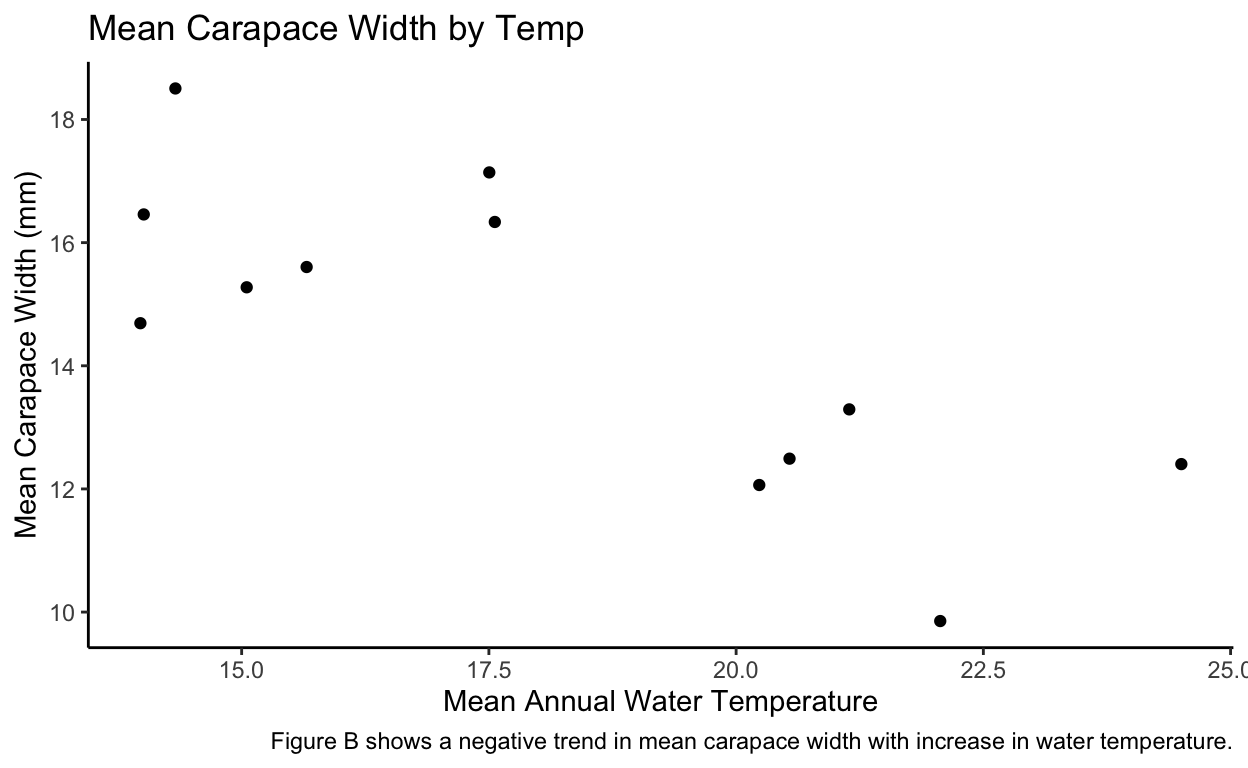
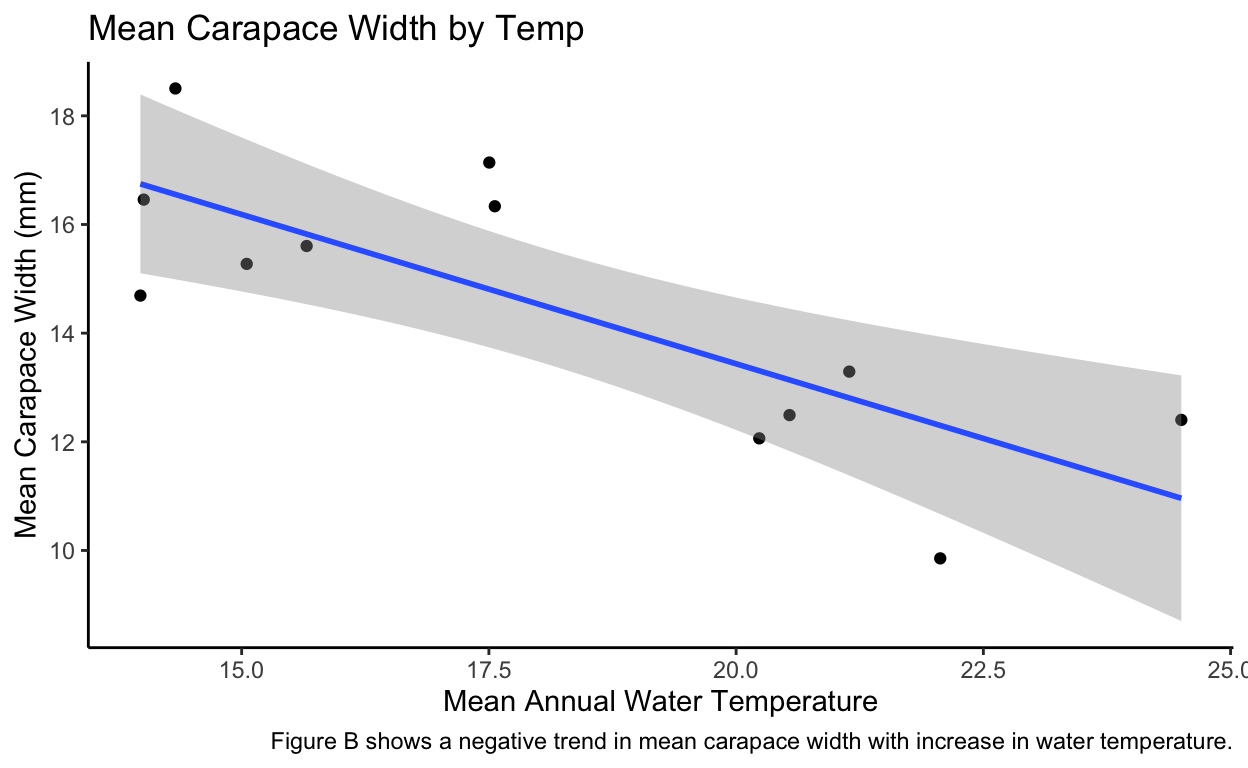
updated

diff --git a/docs/posts/2021-08-20-bringing-it-all-together/index.html b/docs/posts/2021-08-20-bringing-it-all-together/index.html
@@ -22,7 +22,7 @@
   <!--radix_placeholder_meta_tags-->
 <title>My Website: Bringing it All Together</title>
 
-<meta property="description" itemprop="description" content="Some examples of using all our tools to create data visualizations."/>
+<meta property="description" itemprop="description" content="Some examples of using all my tools from EDS 221 to wrangle and create data visualizations."/>
 
 
 <!--  https://schema.org/Article -->
@@ -33,20 +33,20 @@
 <!--  https://developers.facebook.com/docs/sharing/webmasters#markup -->
 <meta property="og:title" content="My Website: Bringing it All Together"/>
 <meta property="og:type" content="article"/>
-<meta property="og:description" content="Some examples of using all our tools to create data visualizations."/>
+<meta property="og:description" content="Some examples of using all my tools from EDS 221 to wrangle and create data visualizations."/>
 <meta property="og:locale" content="en_US"/>
 <meta property="og:site_name" content="My Website"/>
 
 <!--  https://dev.twitter.com/cards/types/summary -->
 <meta property="twitter:card" content="summary"/>
 <meta property="twitter:title" content="My Website: Bringing it All Together"/>
-<meta property="twitter:description" content="Some examples of using all our tools to create data visualizations."/>
+<meta property="twitter:description" content="Some examples of using all my tools from EDS 221 to wrangle and create data visualizations."/>
 
 <!--/radix_placeholder_meta_tags-->
   <!--radix_placeholder_rmarkdown_metadata-->
 
 <script type="text/json" id="radix-rmarkdown-metadata">
-{"type":"list","attributes":{"names":{"type":"character","attributes":{},"value":["title","description","author","date","output"]}},"value":[{"type":"character","attributes":{},"value":["Bringing it All Together"]},{"type":"character","attributes":{},"value":["Some examples of using all our tools to create data visualizations."]},{"type":"list","attributes":{},"value":[{"type":"list","attributes":{"names":{"type":"character","attributes":{},"value":["name","url"]}},"value":[{"type":"character","attributes":{},"value":["Jake Eisaguirre"]},{"type":"list","attributes":{"names":{"type":"character","attributes":{},"value":[]}},"value":[]}]}]},{"type":"character","attributes":{},"value":["08-20-2021"]},{"type":"list","attributes":{"names":{"type":"character","attributes":{},"value":["distill::distill_article"]}},"value":[{"type":"list","attributes":{"names":{"type":"character","attributes":{},"value":["self_contained"]}},"value":[{"type":"logical","attributes":{},"value":[false]}]}]}]}
+{"type":"list","attributes":{"names":{"type":"character","attributes":{},"value":["title","description","author","date","output"]}},"value":[{"type":"character","attributes":{},"value":["Bringing it All Together"]},{"type":"character","attributes":{},"value":["Some examples of using all my tools from EDS 221 to wrangle and create data visualizations."]},{"type":"list","attributes":{},"value":[{"type":"list","attributes":{"names":{"type":"character","attributes":{},"value":["name","url"]}},"value":[{"type":"character","attributes":{},"value":["Jake Eisaguirre"]},{"type":"list","attributes":{"names":{"type":"character","attributes":{},"value":[]}},"value":[]}]}]},{"type":"character","attributes":{},"value":["08-20-2021"]},{"type":"list","attributes":{"names":{"type":"character","attributes":{},"value":["distill::distill_article"]}},"value":[{"type":"list","attributes":{"names":{"type":"character","attributes":{},"value":["self_contained"]}},"value":[{"type":"logical","attributes":{},"value":[false]}]}]}]}
 </script>
 <!--/radix_placeholder_rmarkdown_metadata-->
   
@@ -2309,7 +2309,7 @@ d-appendix d-footnote-list a.footnote-backlink {
 <!--radix_placeholder_front_matter-->
 
 <script id="distill-front-matter" type="text/json">
-{"title":"Bringing it All Together","description":"Some examples of using all our tools to create data visualizations.","authors":[{"author":"Jake Eisaguirre","authorURL":{},"affiliation":"&nbsp;","affiliationURL":"#","orcidID":""}],"publishedDate":"2021-08-20T00:00:00.000+00:00","citationText":"Eisaguirre, 2021"}
+{"title":"Bringing it All Together","description":"Some examples of using all my tools from EDS 221 to wrangle and create data visualizations.","authors":[{"author":"Jake Eisaguirre","authorURL":{},"affiliation":"&nbsp;","affiliationURL":"#","orcidID":""}],"publishedDate":"2021-08-20T00:00:00.000+00:00","citationText":"Eisaguirre, 2021"}
 </script>
 
 <!--/radix_placeholder_front_matter-->
@@ -2336,7 +2336,7 @@ d-appendix d-footnote-list a.footnote-backlink {
 <h1>Bringing it All Together</h1>
 <!--radix_placeholder_categories-->
 <!--/radix_placeholder_categories-->
-<p><p>Some examples of using all our tools to create data visualizations.</p></p>
+<p><p>Some examples of using all my tools from EDS 221 to wrangle and create data visualizations.</p></p>
 </div>
 
 <div class="d-byline">
@@ -2347,16 +2347,38 @@ d-appendix d-footnote-list a.footnote-backlink {
 
 <div class="d-article">
 <div class="layout-chunk" data-layout="l-body">
-
+<div class="sourceCode">
+<pre class="sourceCode r"><code class="sourceCode r"><span class='va'>fids</span> <span class='op'>&lt;-</span> <span class='fu'>read_csv</span><span class='op'>(</span><span class='fu'>here</span><span class='op'>(</span><span class='st'>"_posts"</span>,<span class='st'>"2021-08-20-bringing-it-all-together"</span>, <span class='st'>"HTL-MAR-FiddlerCrabBodySize_copy.csv"</span><span class='op'>)</span><span class='op'>)</span>
+</code></pre>
+</div>
 </div>
 <h2 id="data-exploration">Data Exploration</h2>
-<p>Here we have a nice figure in which we can do some initial data exploration regarding carapace width by latitude.</p>
 <div class="layout-chunk" data-layout="l-body">
+<div class="sourceCode">
+<pre class="sourceCode r"><code class="sourceCode r"><span class='fu'>ggplot</span><span class='op'>(</span><span class='va'>fids</span>, <span class='fu'>aes</span><span class='op'>(</span>x <span class='op'>=</span> <span class='va'>Latitude</span>, y <span class='op'>=</span> <span class='va'>carapace_width</span><span class='op'>)</span><span class='op'>)</span> <span class='op'>+</span> 
+  <span class='fu'>geom_point</span><span class='op'>(</span><span class='fu'>aes</span><span class='op'>(</span>color <span class='op'>=</span> <span class='va'>Latitude</span><span class='op'>)</span><span class='op'>)</span> <span class='op'>+</span>
+  <span class='fu'>labs</span><span class='op'>(</span>title <span class='op'>=</span> <span class='st'>"Carapace Width by Latitude"</span>,
+       x <span class='op'>=</span> <span class='st'>"Latitude"</span>, 
+       y <span class='op'>=</span> <span class='st'>"Carapace Width (mm)"</span>, 
+       caption <span class='op'>=</span> <span class='st'>"Figure A is the observed Caprapace widths at latitude degrees"</span><span class='op'>)</span> <span class='op'>+</span>
+  <span class='fu'>theme_classic</span><span class='op'>(</span><span class='op'>)</span>
+</code></pre>
+</div>
 <p><img src="bringing-it-all-together_files/figure-html5/unnamed-chunk-2-1.png" width="624" /></p>
 </div>
+<p>Here we have a nice figure in which we can do some initial data exploration regarding carapace width by latitude.</p>
 <h2 id="data-table">Data Table</h2>
-<p>Here is a data table with some basic info about our fiddler crabs at different sites</p>
 <div class="layout-chunk" data-layout="l-body">
+<div class="sourceCode">
+<pre class="sourceCode r"><code class="sourceCode r"><span class='va'>data</span> <span class='op'>&lt;-</span> <span class='va'>fids</span> <span class='op'>%&gt;%</span>
+  <span class='fu'>clean_names</span><span class='op'>(</span><span class='op'>)</span> <span class='op'>%&gt;%</span> 
+  <span class='fu'>group_by</span><span class='op'>(</span><span class='va'>site</span><span class='op'>)</span> <span class='op'>%&gt;%</span> 
+  <span class='fu'>summarize</span><span class='op'>(</span>mean_carapace_width <span class='op'>=</span> <span class='fu'><a href='https://rdrr.io/r/base/Round.html'>round</a></span><span class='op'>(</span><span class='fu'><a href='https://rdrr.io/r/base/mean.html'>mean</a></span><span class='op'>(</span><span class='va'>carapace_width</span><span class='op'>)</span>, <span class='fl'>2</span><span class='op'>)</span>, sd_carapace_width <span class='op'>=</span> <span class='fu'><a href='https://rdrr.io/r/base/Round.html'>round</a></span><span class='op'>(</span><span class='fu'><a href='https://rdrr.io/r/stats/sd.html'>sd</a></span><span class='op'>(</span><span class='va'>carapace_width</span><span class='op'>)</span>, <span class='fl'>2</span><span class='op'>)</span>, sample_size <span class='op'>=</span> <span class='fu'>n</span><span class='op'>(</span><span class='op'>)</span><span class='op'>)</span>
+
+<span class='fu'>kable</span><span class='op'>(</span><span class='va'>data</span>, col.name <span class='op'>=</span> <span class='fu'><a href='https://rdrr.io/r/base/c.html'>c</a></span><span class='op'>(</span><span class='st'>"Site"</span>, <span class='st'>"Mean Carapace Width (mm)"</span>, <span class='st'>"SD Carapace Width (mm)"</span>, <span class='st'>"Sample Size"</span><span class='op'>)</span><span class='op'>)</span> <span class='op'>%&gt;%</span> 
+  <span class='fu'>kable_classic</span><span class='op'>(</span><span class='op'>)</span>
+</code></pre>
+</div>
 <table class=" lightable-classic" style="font-family: &quot;Arial Narrow&quot;, &quot;Source Sans Pro&quot;, sans-serif; margin-left: auto; margin-right: auto;">
 <thead>
 <tr>
@@ -2560,12 +2582,29 @@ ZI
 </tbody>
 </table>
 </div>
+<p>Here is a data table with some basic info about our fiddler crabs at different sites</p>
 <h2 id="temperature-vs-carapace-width">Temperature vs Carapace Width</h2>
-<p>Here we can see the possible correlation between mean carapace width and temperature</p>
 <div class="layout-chunk" data-layout="l-body">
+<div class="sourceCode">
+<pre class="sourceCode r"><code class="sourceCode r"><span class='va'>mean_data</span> <span class='op'>=</span> <span class='va'>fids</span> <span class='op'>%&gt;%</span> 
+  <span class='fu'>clean_names</span><span class='op'>(</span><span class='op'>)</span> <span class='op'>%&gt;%</span>
+  <span class='fu'>group_by</span><span class='op'>(</span><span class='va'>matw</span><span class='op'>)</span> <span class='op'>%&gt;%</span> 
+  <span class='fu'>summarize</span><span class='op'>(</span>mean_carapace_width <span class='op'>=</span> <span class='fu'><a href='https://rdrr.io/r/base/mean.html'>mean</a></span><span class='op'>(</span><span class='va'>carapace_width</span><span class='op'>)</span><span class='op'>)</span>
+  
+<span class='fu'>ggplot</span><span class='op'>(</span><span class='va'>mean_data</span>, <span class='fu'>aes</span><span class='op'>(</span>x <span class='op'>=</span> <span class='va'>matw</span>, y <span class='op'>=</span> <span class='va'>mean_carapace_width</span><span class='op'>)</span><span class='op'>)</span> <span class='op'>+</span> 
+  <span class='fu'>geom_point</span><span class='op'>(</span><span class='op'>)</span> <span class='op'>+</span> 
+  <span class='fu'>labs</span><span class='op'>(</span>title <span class='op'>=</span> <span class='st'>"Mean Carapace Width by Temp"</span>, 
+       x <span class='op'>=</span> <span class='st'>"Mean Annual Water Temperature"</span>, 
+       y <span class='op'>=</span> <span class='st'>"Mean Carapace Width (mm)"</span>, 
+       caption <span class='op'>=</span> <span class='st'>"Figure B shows a negative trend in mean carapace width with increase in water temperature."</span><span class='op'>)</span> <span class='op'>+</span>
+  <span class='fu'>theme_classic</span><span class='op'>(</span><span class='op'>)</span> <span class='op'>+</span>
+  <span class='fu'>geom_smooth</span><span class='op'>(</span>method <span class='op'>=</span> <span class='st'>"lm"</span><span class='op'>)</span>
+</code></pre>
+</div>
 <p><img src="bringing-it-all-together_files/figure-html5/unnamed-chunk-4-1.png" title="Scatterplot of mean annual temperature compared to mean carapace width. Increases in temeperature result in decreases in mean width size." alt="Scatterplot of mean annual temperature compared to mean carapace width. Increases in temeperature result in decreases in mean width size." width="624" /></p>
 </div>
-<h2 id="citations">Citations</h2>
+<p>Here we can see the possible correlation between mean carapace width and temperature</p>
+<h3 id="citations">Citations</h3>
 <ul>
 <li><p>Johnson, D. 2019. Fiddler crab body size in salt marshes from Florida to Massachusetts, USA at PIE and VCR LTER and NOAA NERR sites during summer 2016. ver 1. Environmental Data Initiative. <a href="https://doi.org/10.6073/pasta/4c27d2e778d3325d3830a5142e3839bb" class="uri">https://doi.org/10.6073/pasta/4c27d2e778d3325d3830a5142e3839bb</a> (Accessed 2021-08-20).</p></li>
 <li><p>Wickham et al., (2019). Welcome to the tidyverse. Journal of Open Source Software, 4(43), 1686, <a href="https://doi.org/10.21105/joss.01686" class="uri">https://doi.org/10.21105/joss.01686</a></p></li>

diff --git a/_posts/2021-08-20-bringing-it-all-together/bringing-it-all-together.html b/_posts/2021-08-20-bringing-it-all-together/bringing-it-all-together.html
@@ -22,7 +22,7 @@
   <!--radix_placeholder_meta_tags-->
   <title>Bringing it All Together</title>
 
-  <meta property="description" itemprop="description" content="Some examples of using all our tools to create data visualizations."/>
+  <meta property="description" itemprop="description" content="Some examples of using all my tools from EDS 221 to wrangle and create data visualizations."/>
 
 
   <!--  https://schema.org/Article -->
@@ -33,19 +33,19 @@
   <!--  https://developers.facebook.com/docs/sharing/webmasters#markup -->
   <meta property="og:title" content="Bringing it All Together"/>
   <meta property="og:type" content="article"/>
-  <meta property="og:description" content="Some examples of using all our tools to create data visualizations."/>
+  <meta property="og:description" content="Some examples of using all my tools from EDS 221 to wrangle and create data visualizations."/>
   <meta property="og:locale" content="en_US"/>
 
   <!--  https://dev.twitter.com/cards/types/summary -->
   <meta property="twitter:card" content="summary"/>
   <meta property="twitter:title" content="Bringing it All Together"/>
-  <meta property="twitter:description" content="Some examples of using all our tools to create data visualizations."/>
+  <meta property="twitter:description" content="Some examples of using all my tools from EDS 221 to wrangle and create data visualizations."/>
 
   <!--/radix_placeholder_meta_tags-->
   <!--radix_placeholder_rmarkdown_metadata-->
 
   <script type="text/json" id="radix-rmarkdown-metadata">
-  {"type":"list","attributes":{"names":{"type":"character","attributes":{},"value":["title","description","author","date","output"]}},"value":[{"type":"character","attributes":{},"value":["Bringing it All Together"]},{"type":"character","attributes":{},"value":["Some examples of using all our tools to create data visualizations.\n"]},{"type":"list","attributes":{},"value":[{"type":"list","attributes":{"names":{"type":"character","attributes":{},"value":["name","url"]}},"value":[{"type":"character","attributes":{},"value":["Jake Eisaguirre"]},{"type":"list","attributes":{"names":{"type":"character","attributes":{},"value":[]}},"value":[]}]}]},{"type":"character","attributes":{},"value":["08-20-2021"]},{"type":"list","attributes":{"names":{"type":"character","attributes":{},"value":["distill::distill_article"]}},"value":[{"type":"list","attributes":{"names":{"type":"character","attributes":{},"value":["self_contained"]}},"value":[{"type":"logical","attributes":{},"value":[false]}]}]}]}
+  {"type":"list","attributes":{"names":{"type":"character","attributes":{},"value":["title","description","author","date","output"]}},"value":[{"type":"character","attributes":{},"value":["Bringing it All Together"]},{"type":"character","attributes":{},"value":["Some examples of using all my tools from EDS 221 to wrangle and create data visualizations.\n"]},{"type":"list","attributes":{},"value":[{"type":"list","attributes":{"names":{"type":"character","attributes":{},"value":["name","url"]}},"value":[{"type":"character","attributes":{},"value":["Jake Eisaguirre"]},{"type":"list","attributes":{"names":{"type":"character","attributes":{},"value":[]}},"value":[]}]}]},{"type":"character","attributes":{},"value":["08-20-2021"]},{"type":"list","attributes":{"names":{"type":"character","attributes":{},"value":["distill::distill_article"]}},"value":[{"type":"list","attributes":{"names":{"type":"character","attributes":{},"value":["self_contained"]}},"value":[{"type":"logical","attributes":{},"value":[false]}]}]}]}
   </script>
   <!--/radix_placeholder_rmarkdown_metadata-->
   
@@ -1391,7 +1391,7 @@
 <!--radix_placeholder_front_matter-->
 
 <script id="distill-front-matter" type="text/json">
-{"title":"Bringing it All Together","description":"Some examples of using all our tools to create data visualizations.","authors":[{"author":"Jake Eisaguirre","authorURL":{},"affiliation":"&nbsp;","affiliationURL":"#","orcidID":""}],"publishedDate":"2021-08-20T00:00:00.000+00:00","citationText":"Eisaguirre, 2021"}
+{"title":"Bringing it All Together","description":"Some examples of using all my tools from EDS 221 to wrangle and create data visualizations.","authors":[{"author":"Jake Eisaguirre","authorURL":{},"affiliation":"&nbsp;","affiliationURL":"#","orcidID":""}],"publishedDate":"2021-08-20T00:00:00.000+00:00","citationText":"Eisaguirre, 2021"}
 </script>
 
 <!--/radix_placeholder_front_matter-->
@@ -1404,7 +1404,7 @@
 <h1>Bringing it All Together</h1>
 <!--radix_placeholder_categories-->
 <!--/radix_placeholder_categories-->
-<p><p>Some examples of using all our tools to create data visualizations.</p></p>
+<p><p>Some examples of using all my tools from EDS 221 to wrangle and create data visualizations.</p></p>
 </div>
 
 <div class="d-byline">
@@ -1415,16 +1415,38 @@
 
 <div class="d-article">
 <div class="layout-chunk" data-layout="l-body">
-
+<div class="sourceCode">
+<pre class="sourceCode r"><code class="sourceCode r"><span class='va'>fids</span> <span class='op'>&lt;-</span> <span class='fu'>read_csv</span><span class='op'>(</span><span class='fu'>here</span><span class='op'>(</span><span class='st'>"_posts"</span>,<span class='st'>"2021-08-20-bringing-it-all-together"</span>, <span class='st'>"HTL-MAR-FiddlerCrabBodySize_copy.csv"</span><span class='op'>)</span><span class='op'>)</span>
+</code></pre>
+</div>
 </div>
 <h2 id="data-exploration">Data Exploration</h2>
-<p>Here we have a nice figure in which we can do some initial data exploration regarding carapace width by latitude.</p>
 <div class="layout-chunk" data-layout="l-body">
+<div class="sourceCode">
+<pre class="sourceCode r"><code class="sourceCode r"><span class='fu'>ggplot</span><span class='op'>(</span><span class='va'>fids</span>, <span class='fu'>aes</span><span class='op'>(</span>x <span class='op'>=</span> <span class='va'>Latitude</span>, y <span class='op'>=</span> <span class='va'>carapace_width</span><span class='op'>)</span><span class='op'>)</span> <span class='op'>+</span> 
+  <span class='fu'>geom_point</span><span class='op'>(</span><span class='fu'>aes</span><span class='op'>(</span>color <span class='op'>=</span> <span class='va'>Latitude</span><span class='op'>)</span><span class='op'>)</span> <span class='op'>+</span>
+  <span class='fu'>labs</span><span class='op'>(</span>title <span class='op'>=</span> <span class='st'>"Carapace Width by Latitude"</span>,
+       x <span class='op'>=</span> <span class='st'>"Latitude"</span>, 
+       y <span class='op'>=</span> <span class='st'>"Carapace Width (mm)"</span>, 
+       caption <span class='op'>=</span> <span class='st'>"Figure A is the observed Caprapace widths at latitude degrees"</span><span class='op'>)</span> <span class='op'>+</span>
+  <span class='fu'>theme_classic</span><span class='op'>(</span><span class='op'>)</span>
+</code></pre>
+</div>
 <p><img src="bringing-it-all-together_files/figure-html5/unnamed-chunk-2-1.png" width="624" /></p>
 </div>
+<p>Here we have a nice figure in which we can do some initial data exploration regarding carapace width by latitude.</p>
 <h2 id="data-table">Data Table</h2>
-<p>Here is a data table with some basic info about our fiddler crabs at different sites</p>
 <div class="layout-chunk" data-layout="l-body">
+<div class="sourceCode">
+<pre class="sourceCode r"><code class="sourceCode r"><span class='va'>data</span> <span class='op'>&lt;-</span> <span class='va'>fids</span> <span class='op'>%&gt;%</span>
+  <span class='fu'>clean_names</span><span class='op'>(</span><span class='op'>)</span> <span class='op'>%&gt;%</span> 
+  <span class='fu'>group_by</span><span class='op'>(</span><span class='va'>site</span><span class='op'>)</span> <span class='op'>%&gt;%</span> 
+  <span class='fu'>summarize</span><span class='op'>(</span>mean_carapace_width <span class='op'>=</span> <span class='fu'><a href='https://rdrr.io/r/base/Round.html'>round</a></span><span class='op'>(</span><span class='fu'><a href='https://rdrr.io/r/base/mean.html'>mean</a></span><span class='op'>(</span><span class='va'>carapace_width</span><span class='op'>)</span>, <span class='fl'>2</span><span class='op'>)</span>, sd_carapace_width <span class='op'>=</span> <span class='fu'><a href='https://rdrr.io/r/base/Round.html'>round</a></span><span class='op'>(</span><span class='fu'><a href='https://rdrr.io/r/stats/sd.html'>sd</a></span><span class='op'>(</span><span class='va'>carapace_width</span><span class='op'>)</span>, <span class='fl'>2</span><span class='op'>)</span>, sample_size <span class='op'>=</span> <span class='fu'>n</span><span class='op'>(</span><span class='op'>)</span><span class='op'>)</span>
+
+<span class='fu'>kable</span><span class='op'>(</span><span class='va'>data</span>, col.name <span class='op'>=</span> <span class='fu'><a href='https://rdrr.io/r/base/c.html'>c</a></span><span class='op'>(</span><span class='st'>"Site"</span>, <span class='st'>"Mean Carapace Width (mm)"</span>, <span class='st'>"SD Carapace Width (mm)"</span>, <span class='st'>"Sample Size"</span><span class='op'>)</span><span class='op'>)</span> <span class='op'>%&gt;%</span> 
+  <span class='fu'>kable_classic</span><span class='op'>(</span><span class='op'>)</span>
+</code></pre>
+</div>
 <table class=" lightable-classic" style="font-family: &quot;Arial Narrow&quot;, &quot;Source Sans Pro&quot;, sans-serif; margin-left: auto; margin-right: auto;">
 <thead>
 <tr>
@@ -1628,12 +1650,29 @@ ZI
 </tbody>
 </table>
 </div>
+<p>Here is a data table with some basic info about our fiddler crabs at different sites</p>
 <h2 id="temperature-vs-carapace-width">Temperature vs Carapace Width</h2>
-<p>Here we can see the possible correlation between mean carapace width and temperature</p>
 <div class="layout-chunk" data-layout="l-body">
+<div class="sourceCode">
+<pre class="sourceCode r"><code class="sourceCode r"><span class='va'>mean_data</span> <span class='op'>=</span> <span class='va'>fids</span> <span class='op'>%&gt;%</span> 
+  <span class='fu'>clean_names</span><span class='op'>(</span><span class='op'>)</span> <span class='op'>%&gt;%</span>
+  <span class='fu'>group_by</span><span class='op'>(</span><span class='va'>matw</span><span class='op'>)</span> <span class='op'>%&gt;%</span> 
+  <span class='fu'>summarize</span><span class='op'>(</span>mean_carapace_width <span class='op'>=</span> <span class='fu'><a href='https://rdrr.io/r/base/mean.html'>mean</a></span><span class='op'>(</span><span class='va'>carapace_width</span><span class='op'>)</span><span class='op'>)</span>
+  
+<span class='fu'>ggplot</span><span class='op'>(</span><span class='va'>mean_data</span>, <span class='fu'>aes</span><span class='op'>(</span>x <span class='op'>=</span> <span class='va'>matw</span>, y <span class='op'>=</span> <span class='va'>mean_carapace_width</span><span class='op'>)</span><span class='op'>)</span> <span class='op'>+</span> 
+  <span class='fu'>geom_point</span><span class='op'>(</span><span class='op'>)</span> <span class='op'>+</span> 
+  <span class='fu'>labs</span><span class='op'>(</span>title <span class='op'>=</span> <span class='st'>"Mean Carapace Width by Temp"</span>, 
+       x <span class='op'>=</span> <span class='st'>"Mean Annual Water Temperature"</span>, 
+       y <span class='op'>=</span> <span class='st'>"Mean Carapace Width (mm)"</span>, 
+       caption <span class='op'>=</span> <span class='st'>"Figure B shows a negative trend in mean carapace width with increase in water temperature."</span><span class='op'>)</span> <span class='op'>+</span>
+  <span class='fu'>theme_classic</span><span class='op'>(</span><span class='op'>)</span> <span class='op'>+</span>
+  <span class='fu'>geom_smooth</span><span class='op'>(</span>method <span class='op'>=</span> <span class='st'>"lm"</span><span class='op'>)</span>
+</code></pre>
+</div>
 <p><img src="bringing-it-all-together_files/figure-html5/unnamed-chunk-4-1.png" title="Scatterplot of mean annual temperature compared to mean carapace width. Increases in temeperature result in decreases in mean width size." alt="Scatterplot of mean annual temperature compared to mean carapace width. Increases in temeperature result in decreases in mean width size." width="624" /></p>
 </div>
-<h2 id="citations">Citations</h2>
+<p>Here we can see the possible correlation between mean carapace width and temperature</p>
+<h3 id="citations">Citations</h3>
 <ul>
 <li><p>Johnson, D. 2019. Fiddler crab body size in salt marshes from Florida to Massachusetts, USA at PIE and VCR LTER and NOAA NERR sites during summer 2016. ver 1. Environmental Data Initiative. <a href="https://doi.org/10.6073/pasta/4c27d2e778d3325d3830a5142e3839bb" class="uri">https://doi.org/10.6073/pasta/4c27d2e778d3325d3830a5142e3839bb</a> (Accessed 2021-08-20).</p></li>
 <li><p>Wickham et al., (2019). Welcome to the tidyverse. Journal of Open Source Software, 4(43), 1686, <a href="https://doi.org/10.21105/joss.01686" class="uri">https://doi.org/10.21105/joss.01686</a></p></li>

diff --git a/docs/blog.html b/docs/blog.html
@@ -2532,7 +2532,7 @@ function init_posts_list() {
 <div class="description">
 <h2>Bringing it All Together</h2>
 <div class="dt-tags"></div>
-<p>Some examples of using all our tools to create data visualizations.</p>
+<p>Some examples of using all my tools from EDS 221 to wrangle and create data visualizations.</p>
 </div>
 </a>
 <a href="posts/2021-08-16-data-wrangling/" class="post-preview">
